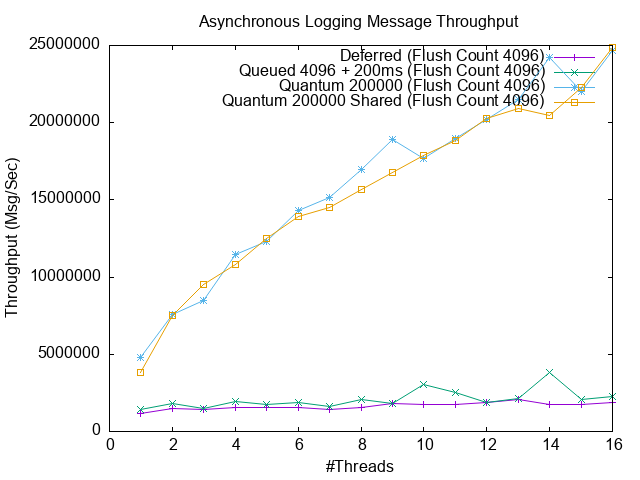
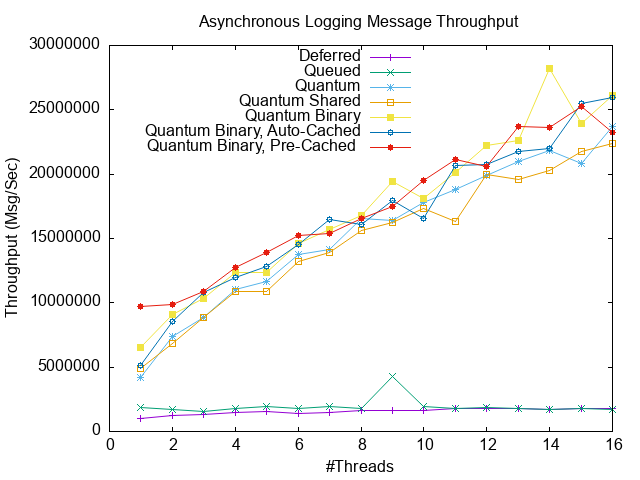
Updated benchmark results for binary logging

diff --git a/src/elog_bench/src/elog_bench.cpp b/src/elog_bench/src/elog_bench.cpp
@@ -2710,9 +2710,9 @@ static void writeSTCsv(const char* fname, const std::vector<double>& data) {
 #ifdef ELOG_ENABLE_FMT_LIB
     f << column << " Quantum-Bin " << std::fixed << std::setprecision(2) << data[column++]
       << std::endl;
-    f << column << " Quantum-Bin\nAuto-Cache " << std::fixed << std::setprecision(2)
+    f << column << " Quantum-Bin\\nAuto-Cache " << std::fixed << std::setprecision(2)
       << data[column++] << std::endl;
-    f << column << " Quantum-Bin\nPre-Cache " << std::fixed << std::setprecision(2)
+    f << column << " Quantum-Bin\\nPre-Cache " << std::fixed << std::setprecision(2)
       << data[column++] << std::endl;
 #endif
     f.close();
